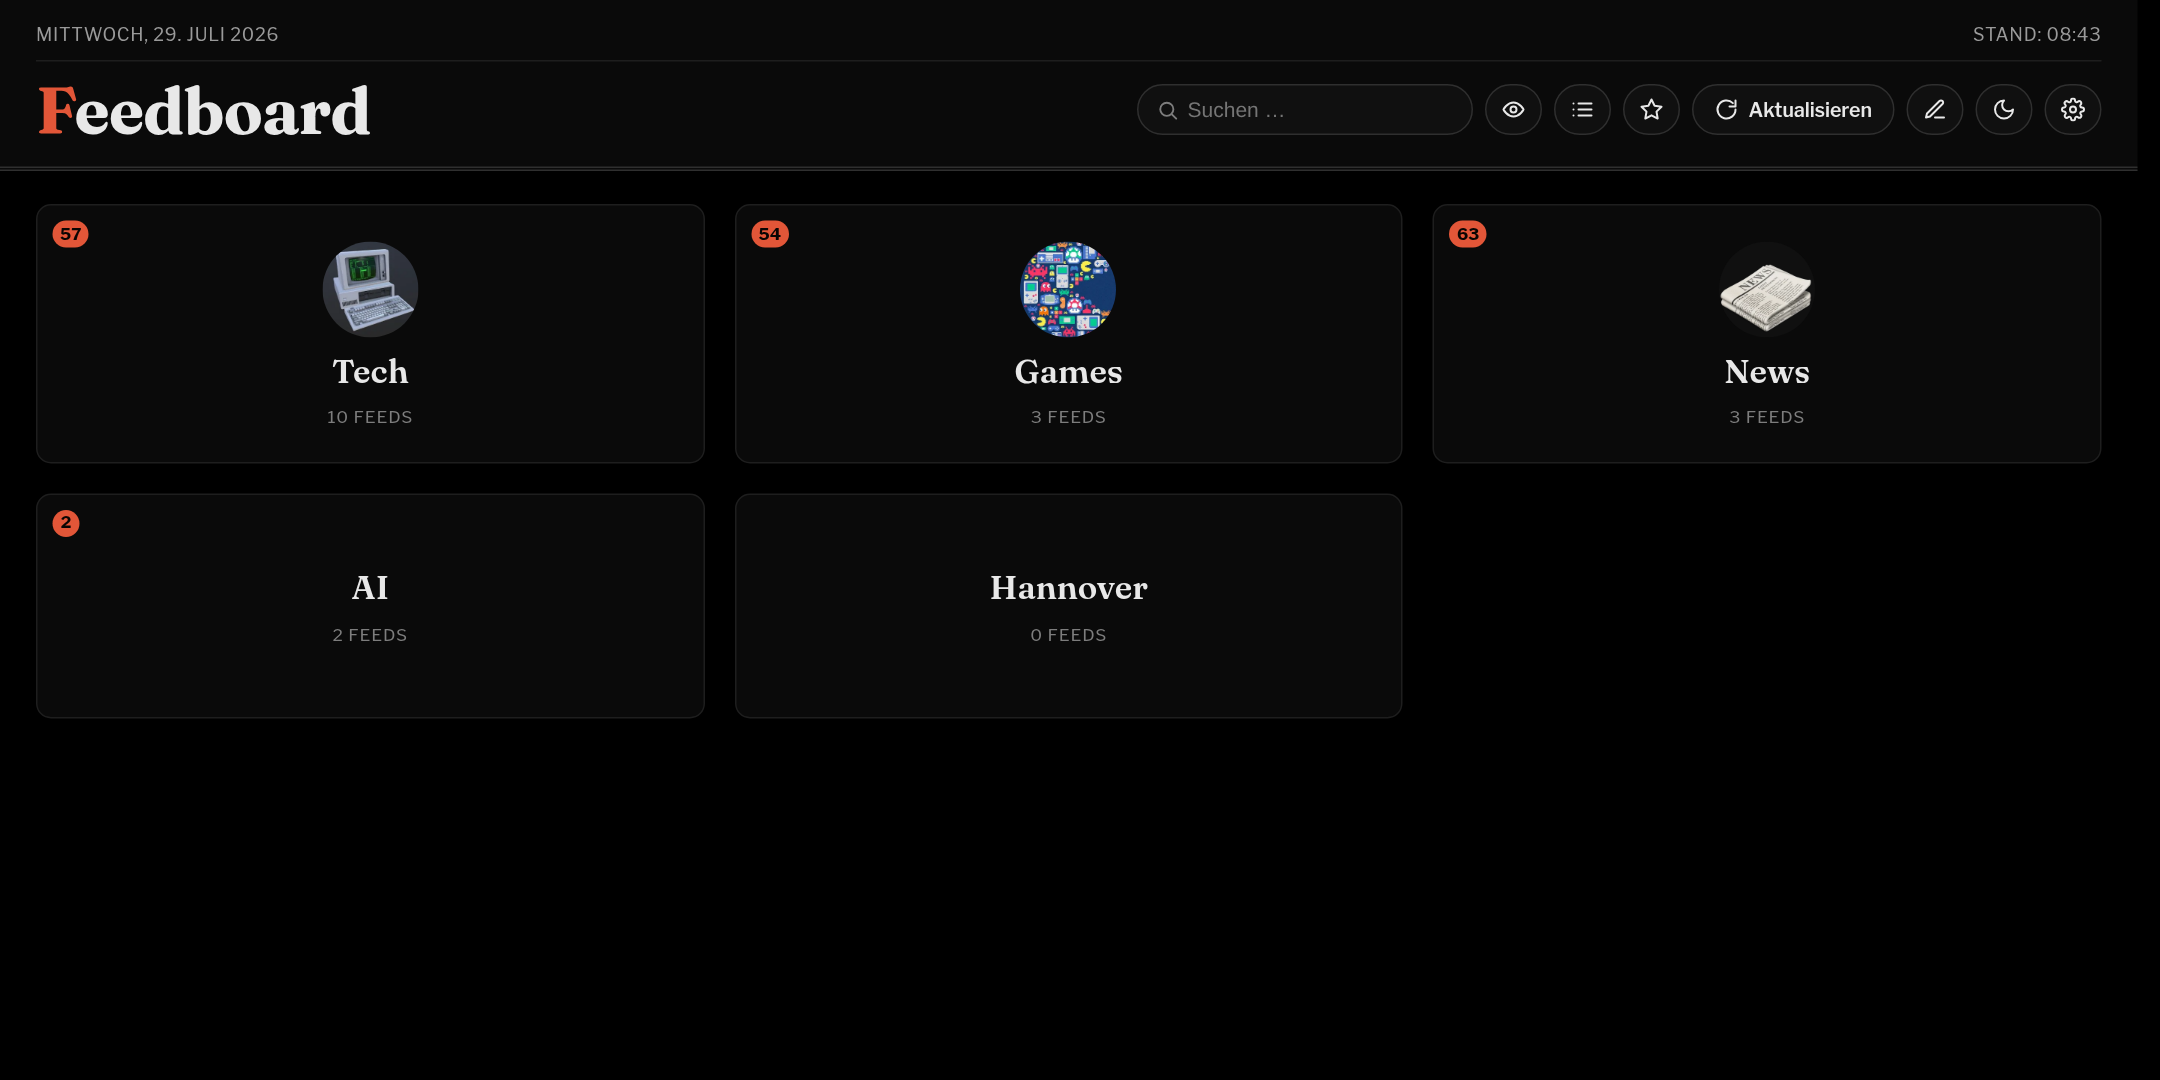
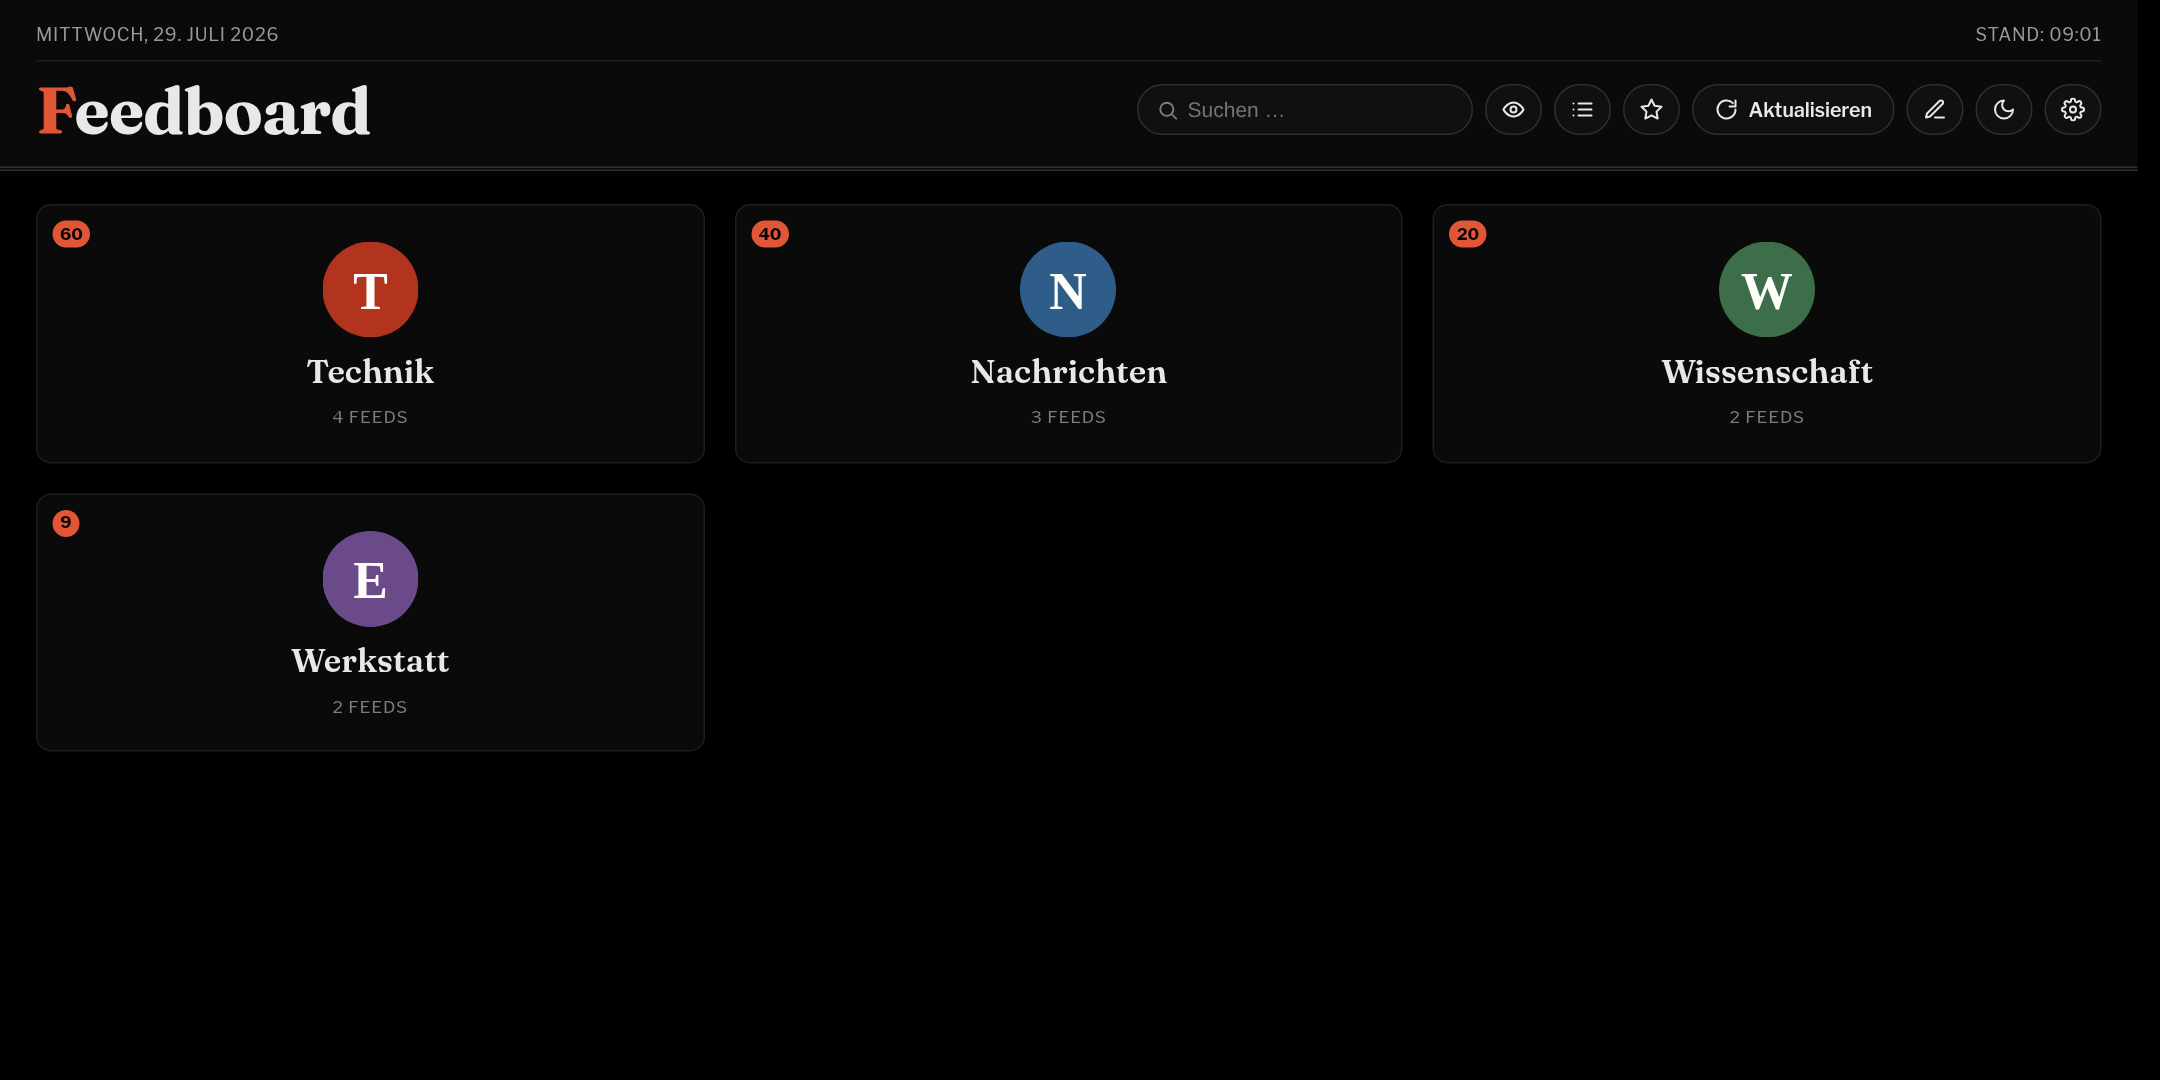
Demo-Daten fuer die Screenshots, Zeichensatz beim Abruf
Die Bilder zeigten die eigenen Feeds und Schlagzeilen. Jetzt stehen dort
oeffentliche Quellen (heise, Golem, Ars Technica, The Verge, tagesschau, BBC,
Spektrum, NASA, GitHub Blog, xkcd) in vier Rubriken, dazu ein absichtlich
kaputter und ein pausierter Feed, damit der Zustand der Feeds alle drei Faelle
zeigt.

Dabei fiel im Bild ein Fehler auf, den ich selbst eingebaut hatte: Golem-
Ueberschriften standen als "F<fffd>rderprogramme" da. Der Feed ist ISO-8859-1,
und Response.text() dekodiert laut Spezifikation immer als UTF-8 und ignoriert
das charset der Kopfzeile. Vor der Umstellung auf bedingtes Abrufen hat
rss-parser selbst geladen und richtig dekodiert — die Regression stammt also
aus dem vorigen Commit. Jetzt wird der Rumpf als Bytes gelesen und nach dem
charset der Kopfzeile dekodiert, ersatzweise nach der XML-Deklaration.
Geprueft an drei echten Feeds, einer davon Latin-1.

Ausserdem stand bei einem von Hand pausierten Feed "Nach 0 Fehlversuchen in
Folge pausiert." Dafuer gibt es jetzt einen eigenen Satz.

Die laufende Datenbank ist nicht betroffen: kein einziger Artikel enthaelt das
Ersatzzeichen.

diff --git a/feedFetcher.js b/feedFetcher.js
@@ -235,10 +235,34 @@ async function ladeFeedText(feed) {
 
   return {
     unveraendert: false,
-    text: await antwort.text(),
+    text: entschluessele(await antwort.arrayBuffer(), antwort.headers.get('content-type')),
     etag: antwort.headers.get('etag'),
     lastModified: antwort.headers.get('last-modified'),
   };
+}
+
+// Nicht jeder Feed ist UTF-8: Golem etwa liefert ISO-8859-1. Response.text()
+// waere hier falsch — es dekodiert laut Spezifikation immer als UTF-8 und
+// ignoriert das charset aus der Kopfzeile. Aus "erhältlich" wuerde
+// "erh<fffd>ltlich". Deshalb selbst dekodieren: erst nach dem charset der
+// Kopfzeile, sonst nach der XML-Deklaration im Rumpf.
+function entschluessele(rohdaten, contentType) {
+  const ausKopf = /charset=["']?([\w-]+)/i.exec(contentType || '')?.[1];
+
+  // Die Deklaration steht im ASCII-Bereich, also ist Latin-1 zum Nachsehen
+  // sicher — egal, was tatsaechlich drin steht.
+  const anfang = new TextDecoder('iso-8859-1').decode(rohdaten.slice(0, 200));
+  const ausRumpf = /<\?xml[^>]*encoding=["']([\w-]+)["']/i.exec(anfang)?.[1];
+
+  for (const name of [ausKopf, ausRumpf, 'utf-8']) {
+    if (!name) continue;
+    try {
+      return new TextDecoder(name).decode(rohdaten);
+    } catch {
+      // Unbekannter Name (etwa "utf8mb4") — der naechste Kandidat ist dran
+    }
+  }
+  return new TextDecoder('utf-8').decode(rohdaten);
 }
 
 async function fetchFeed(feed) {

diff --git a/public/app.js b/public/app.js
@@ -1255,7 +1255,9 @@
           <div class="feed-health-name">${esc(f.name)}<span class="feed-health-cat">${esc(f.category_name)}</span></div>
           <div class="feed-health-meta">${esc(zeilen)}</div>
           ${f.last_error ? `<div class="feed-health-error">${esc(f.last_error)}</div>` : ''}
-          ${!f.enabled ? `<div class="feed-health-meta">${esc(t('feed_health_paused', { n: f.error_count }))}</div>` : ''}
+          ${!f.enabled ? `<div class="feed-health-meta">${esc(f.error_count
+            ? t('feed_health_paused', { n: f.error_count })
+            : t('feed_health_paused_manual'))}</div>` : ''}
         </div>
         ${!f.enabled && !needsLogin() ? `<button type="button" class="btn feed-health-on" data-feed="${f.id}">${esc(t('feed_health_enable'))}</button>` : ''}
       </div>`;
